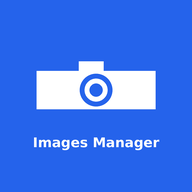
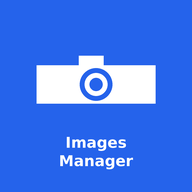
deploy: 92b3907ece8384e8e21d5d85f2a459b054240141

Changed region(s): [[0.1875, 0.2812, 0.8125, 0.5938], [0.1562, 0.6875, 0.8438, 0.9062]]

diff --git a/index.html b/index.html
@@ -34,17 +34,17 @@
   <link rel="icon" type="image/png" href="/ImagesManager_Mobile/favicon.png">
   <style>
     #im-splash {
-      position:fixed; inset:0; background:#2563eb;
-      display:flex; flex-direction:column;
-      align-items:center; justify-content:center; z-index:99999;
-      font-family:Arial,sans-serif;
+      position:fixed;inset:0;background:#2563eb;
+      display:flex;flex-direction:column;
+      align-items:center;justify-content:center;z-index:99999;
+      font-family:Arial,Helvetica,sans-serif;
     }
-    #im-splash svg { margin-bottom:20px; }
-    #im-splash .t1 { color:#fff; font-size:26px; font-weight:700; margin:0; }
-    #im-splash .t2 { color:rgba(255,255,255,.65); font-size:13px; margin:6px 0 0; }
+    #im-splash svg{margin-bottom:18px;}
+    #im-splash .t1{color:#fff;font-size:26px;font-weight:700;margin:0;}
+    #im-splash .t2{color:rgba(255,255,255,.6);font-size:13px;margin:6px 0 0;}
   </style>
 
-  </head>
+</head>
 
   <body>
     <!-- Use static rendering with Expo Router to support running without JavaScript. -->
@@ -53,29 +53,33 @@
     </noscript>
     <!-- The root element for your Expo app. -->
     <div id="root">
-  <div id="im-splash">
-    <svg width="90" height="90" viewBox="0 0 90 90">
-      <rect width="90" height="90" rx="14" fill="rgba(255,255,255,.18)"/>
-      <rect x="11" y="27" width="68" height="42" rx="7" fill="white"/>
-      <circle cx="45" cy="48" r="13" fill="#2563eb"/>
-      <circle cx="45" cy="48" r="9" fill="white"/>
-      <circle cx="45" cy="48" r="5" fill="#2563eb"/>
-      <rect x="28" y="17" width="20" height="12" rx="4" fill="white"/>
-    </svg>
-    <p class="t1">Images Manager</p>
-    <p class="t2">Bijoux &amp; WooCommerce</p>
-  </div>
-  <script>
-    document.addEventListener('DOMContentLoaded',function(){
-      var s=document.getElementById('im-splash');
-      if(s){setTimeout(function(){s.style.transition='opacity .4s';s.style.opacity='0';setTimeout(function(){s.remove();},450);},1800);}
+<div id="im-splash">
+  <svg width="88" height="88" viewBox="0 0 88 88" fill="none">
+    <rect width="88" height="88" rx="14" fill="rgba(255,255,255,.18)"/>
+    <rect x="10" y="26" width="68" height="42" rx="7" fill="white"/>
+    <circle cx="44" cy="47" r="13" fill="#2563eb"/>
+    <circle cx="44" cy="47" r="9" fill="white"/>
+    <circle cx="44" cy="47" r="5" fill="#2563eb"/>
+    <rect x="27" y="16" width="20" height="12" rx="4" fill="white"/>
+  </svg>
+  <p class="t1">Images Manager</p>
+  <p class="t2">Bijoux &amp; WooCommerce</p>
+</div>
+<script>
+  document.addEventListener('DOMContentLoaded',function(){
+    var s=document.getElementById('im-splash');
+    if(s){setTimeout(function(){
+      s.style.transition='opacity .4s';
+      s.style.opacity='0';
+      setTimeout(function(){s.remove();},450);
+    },1800);}
+  });
+  if('serviceWorker' in navigator){
+    window.addEventListener('load',function(){
+      navigator.serviceWorker.register('/ImagesManager_Mobile/sw.js');
     });
-    if('serviceWorker' in navigator){
-      window.addEventListener('load',function(){
-        navigator.serviceWorker.register('/ImagesManager_Mobile/sw.js');
-      });
-    }
-  </script>
+  }
+</script>
 </div>
   <script src="/ImagesManager_Mobile/_expo/static/js/web/index-8d9f029e6c6c1559fee15f7834c43f66.js" defer></script>
 </body>

diff --git a/sw.js b/sw.js
@@ -1,4 +1,11 @@
-const CACHE = 'images-manager-v1';
-self.addEventListener('install', e => self.skipWaiting());
-self.addEventListener('activate', e => self.clients.claim());
-self.addEventListener('fetch', e => e.respondWith(fetch(e.request).catch(() => caches.match(e.request))));
+// Service Worker minimal — permet l'installation PWA sur Android
+const CACHE_NAME = 'images-manager-v1';
+
+self.addEventListener('install', () => self.skipWaiting());
+self.addEventListener('activate', () => self.clients.claim());
+
+self.addEventListener('fetch', (e) => {
+  e.respondWith(
+    fetch(e.request).catch(() => caches.match(e.request))
+  );
+});
